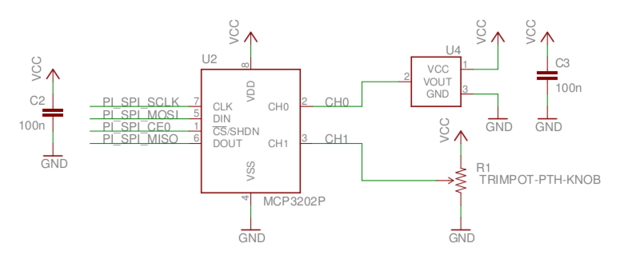
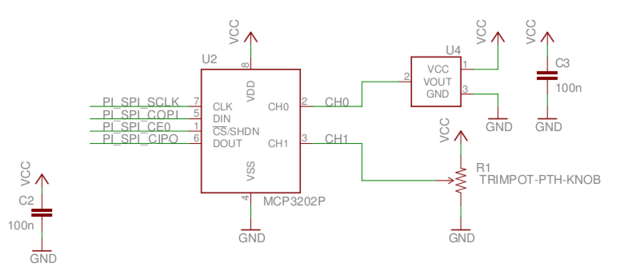
Remove m/s refs (#37)

diff --git a/README.md b/README.md
@@ -30,8 +30,8 @@ A [Serial Peripheral
 Interface](https://en.wikipedia.org/wiki/Serial_Peripheral_Interface_Bus) (SPI)
 bus is a common multi-wire bus used to connect components on a circuit board. A
 clock line drives the timing of sending bits between components. Bits on the
-Master Out Slave In `MOSI` line go from the master (usually the processor
-running Linux) to the slave, and bits on the Master In Slave Out `MISO` line go
+Controller Out Peripheral In `COPI` line go from the controller (usually the processor
+running Linux) to the peripheral, and bits on the Controller In Peripheral Out `CIPO` line go
 the other direction. Bits transfer both directions simultaneously. However, much
 of the time, the protocol used across the SPI bus has a request followed by a
 response and in these cases, bits going the "wrong" direction are ignored. This
